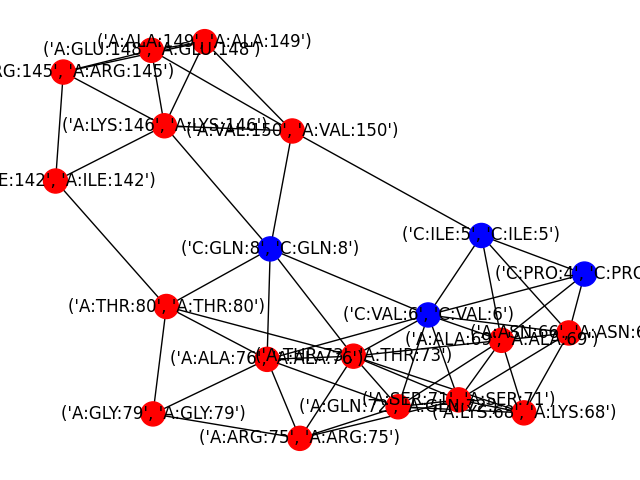
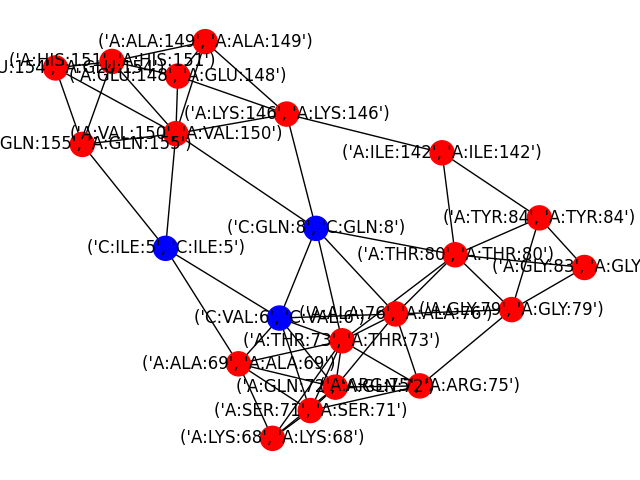
Added SERD Json file config

diff --git a/graph/graph.py b/graph/graph.py
@@ -19,7 +19,7 @@ import numpy as np
 class AssociatedGraph:
     def __init__(self, graphs: List[Tuple], reference_graph: Union[str, int, None], output_path: str, path_full_subgraph: str, run_name: str, 
                  association_mode: str = "identity", centroid_threshold: int = 10, neighbor_similarity_cutoff: float = 0.95, 
-                 rsa_similarity_threshold: float = 0.95, residues_similarity_cutoff: float = 0.95, factors_path: Union[str, None] = None):
+                 rsa_similarity_threshold: float = 0.95, depth_similarity_threshold: float = 0.95, residues_similarity_cutoff: float = 0.95, factors_path: Union[str, None] = None):
 
         self.graphs = graphs
         self.output_path = output_path
@@ -28,6 +28,7 @@ class AssociatedGraph:
         self.centroid_threshold = centroid_threshold
         self.neighbor_similarity_cutoff = neighbor_similarity_cutoff
         self.rsa_similarity_threshold = rsa_similarity_threshold
+        self.depth_similarity_threshold = depth_similarity_threshold
         self.factors_path = factors_path
         self.residues_similarity_cutoff = residues_similarity_cutoff
         self.reference_graph = reference_graph
@@ -35,7 +36,7 @@ class AssociatedGraph:
         Path(self.output_path).mkdir(parents=True, exist_ok=True)
         self.path_full_subgraph = path_full_subgraph
         
-        self.associated_graph = self._construct_graph(graphs=self.graphs, reference_graph=self.reference_graph, association_mode=self.association_mode, centroid_threshold=self.centroid_threshold, residues_similarity_cutoff=self.residues_similarity_cutoff, neighbor_similarity_cutoff=self.neighbor_similarity_cutoff, rsa_similarity_threshold=self.rsa_similarity_threshold, factors_path=self.factors_path )
+        self.associated_graph = self._construct_graph(graphs=self.graphs, reference_graph=self.reference_graph, association_mode=self.association_mode, centroid_threshold=self.centroid_threshold, residues_similarity_cutoff=self.residues_similarity_cutoff, neighbor_similarity_cutoff=self.neighbor_similarity_cutoff, rsa_similarity_threshold=self.rsa_similarity_threshold, depth_similarity_threshold=self.depth_similarity_threshold, factors_path=self.factors_path )
         
     def create_graphs_list(self, graphs: List[Tuple]) -> List[Tuple]:
 
@@ -48,7 +49,7 @@ class AssociatedGraph:
 
         return graphsList
         
-    def build_associated_graph(self, graphsList: List[Tuple], reference_graph: Union[str, int, None], association_mode: str, centroid_threshold: int, neighbor_similarity_cutoff: float, rsa_similarity_threshold: float, residues_similarity_cutoff: float, factors_path: Union[str, None]):
+    def build_associated_graph(self, graphsList: List[Tuple], reference_graph: Union[str, int, None], association_mode: str, centroid_threshold: int, neighbor_similarity_cutoff: float, rsa_similarity_threshold: float, depth_similarity_threshold: float, residues_similarity_cutoff: float, factors_path: Union[str, None]):
         
         if isinstance(reference_graph, int):
             graphsList[0], graphsList[reference_graph] = graphsList[reference_graph], graphsList[0]
@@ -77,7 +78,7 @@ class AssociatedGraph:
         start = time()
         print(f"Vou iniciar o produto cartesiano")
         
-        M = association_product(graphsList=self.graphsList, association_mode = association_mode, factors_path=factors_path, centroid_threshold = centroid_threshold, residues_similarity_cutoff=residues_similarity_cutoff, neighbor_similarity_cutoff = neighbor_similarity_cutoff, rsa_similarity_threshold=rsa_similarity_threshold)
+        M = association_product(graphsList=self.graphsList, association_mode = association_mode, factors_path=factors_path, centroid_threshold = centroid_threshold, residues_similarity_cutoff=residues_similarity_cutoff, neighbor_similarity_cutoff = neighbor_similarity_cutoff, rsa_similarity_threshold=rsa_similarity_threshold, depth_similarity_threshold=depth_similarity_threshold)
         # M = association_product(graphs=graphs, association_mode = association_mode, factors_path=factors_path, nodes_graphs = nodes_graphs, contact_maps = contact_maps, residue_maps_all = residue_maps_all, rsa_maps=rsa_maps, centroid_threshold = centroid_threshold, residues_similarity_cutoff=residues_similarity_cutoff, neighbor_similarity_cutoff = neighbor_similarity_cutoff, rsa_similarity_threshold=rsa_similarity_threshold)
         
         end = time()
@@ -85,7 +86,7 @@ class AssociatedGraph:
         
         return M
     
-    def _construct_graph(self, graphs: list, reference_graph: Union[str, int, None],  association_mode: str, centroid_threshold: int, neighbor_similarity_cutoff: float, rsa_similarity_threshold: float, residues_similarity_cutoff: float, factors_path: Union[str, None]):
+    def _construct_graph(self, graphs: list, reference_graph: Union[str, int, None],  association_mode: str, centroid_threshold: int, neighbor_similarity_cutoff: float, rsa_similarity_threshold: float, depth_similarity_threshold: float, residues_similarity_cutoff: float, factors_path: Union[str, None]):
         # Create a contact map and a list with residue names order as the contact map
         # We do not need to do this, since graphein already build internally the distance matrix considering the centroid
         # This matrix can be obtained from: graph.graph["pdb_df"]
@@ -94,7 +95,7 @@ class AssociatedGraph:
         # Instead of using the dist_mat we can build it again using compute_distmat(graph.graph["pdb_df"])
         
         graphsList= self.create_graphs_list(graphs)
-        associated_graph = self.build_associated_graph(graphsList = graphsList, reference_graph= reference_graph, association_mode = association_mode, centroid_threshold = centroid_threshold, factors_path=factors_path, residues_similarity_cutoff=residues_similarity_cutoff, neighbor_similarity_cutoff= neighbor_similarity_cutoff, rsa_similarity_threshold = rsa_similarity_threshold)
+        associated_graph = self.build_associated_graph(graphsList = graphsList, reference_graph= reference_graph, association_mode = association_mode, centroid_threshold = centroid_threshold, factors_path=factors_path, residues_similarity_cutoff=residues_similarity_cutoff, neighbor_similarity_cutoff= neighbor_similarity_cutoff, rsa_similarity_threshold = rsa_similarity_threshold, depth_similarity_threshold=depth_similarity_threshold)
 
         return associated_graph
     

diff --git a/main.py b/main.py
@@ -7,7 +7,7 @@ import os
 from os import path
 import argparse
 from graph.graph import *
-from config.graph_config import make_graph_config
+from config.parse_configs import make_graph_config
 from io_utils.pdb_io import list_pdb_files, get_user_selection
 import logging, sys
 import json
@@ -15,7 +15,7 @@ import numpy
 import matplotlib
 from typing import Dict, List, Optional
 from SERD import read_vdw, read_pdb, get_vertices, surface, interface, _get_sincos
-
+from collections import defaultdict
 
 class Surface(object):
 
@@ -398,46 +398,18 @@ def parser_args() -> argparse.Namespace:
                         help="Factors for calculating the residue similarity ")
     parser.add_argument('--rsa_filter', type=none_or_float, default=0.1,
                         help="Threshold for filter residues by RSA")
-    parser.add_argument('--rsa_similarity_threshold', type=float, default=0.90,
+    parser.add_argument('--depth_similarity_threshold', type=float, default=0.95,
+                        help="Threshold for make an associate graph using Depth similarity")
+    parser.add_argument('--rsa_similarity_threshold', type=float, default=0.95,
                         help="Threshold for make an associate graph using RSA similarity")
     parser.add_argument('--residues_lists', type=str, default=None,
                         help="Path to Json file which contains the pdb residues")
+    parser.add_argument('--serd_file', type=str, default=None,
+                        help="Path to Json file which contains the SERD configuration" )
     parser.add_argument('--debug', type=bool, default=False,
                         help="Activate debug mode")
 
-    parser.add_argument(
-        "--vdw", type=str, default=None, help="Path to VDW file (optional)"
-    )
-    parser.add_argument(
-        "--step", type=float, default=0.6, help="Step size for surface modeling"
-    )
-    parser.add_argument(
-        "--probe", type=float, default=1.4, help="Probe radius for surface modeling"
-    )
-    parser.add_argument(
-        "--type",
-        type=str,
-        default="SES",
-        choices=["SES", "SAS"],
-        help="Type of surface to model (SES or SAS)",
-    )
-    parser.add_argument(
-        "--keep_only_interface",
-        action="store_true",
-        help="Keep only residues at the interface",
-    )
-    parser.add_argument(
-        "--ignore_backbone",
-        action="store_true",
-        help="Ignore backbone atoms for defining the interface",
-    )
-    parser.add_argument(
-        "--metric",
-        type=str,
-        default="minimum",
-        choices=["minimum", "centroid"],
-        help="Metric used to calculate the residue depth",
-    )
+
     args = parser.parse_args()
     
     return args
@@ -509,6 +481,7 @@ def main():
     centroid_threshold=args.centroid_threshold
     rsa_filter = args.rsa_filter
     rsa_similarity_threshold = args.rsa_similarity_threshold
+    depth_similarity_threshold = args.depth_similarity_threshold
     neighbor_similarity_cutoff = args.neighbor_similarity_cutoff
     
     debug = args.debug
@@ -525,7 +498,6 @@ def main():
     
     with open(args.residues_lists, "r") as f:
         residues_lists = json.load(f) 
-
 
     # List of paths
     mols_path = args.mols_path
@@ -551,9 +523,25 @@ def main():
     for mol_path in selected_files:
         g = Graph(config=config, graph_path=mol_path[0])
 
-        structure = Structure(vdw=args.vdw)
+        defaults_serd = {
+            "vdw": None,
+            "step": 0.6,
+            "probe": 1.4,
+            "type": "SES",
+            "keep_only_interface": True,
+            "ignore_backbone": True,
+            "metric": "minimum"
+        }
+
+        config_serd =  defaultdict(lambda: None, defaults_serd)
+
+        if args.serd_file:
+            with open(args.serd_file, "r") as f:
+                config_serd.update(json.load(f))
+
+        structure = Structure(vdw=config_serd["vdw"])
         structure.load(mol_path[0])
-        structure.model_surface(type=args.type, step=args.step, probe=args.probe)
+        structure.model_surface(type=config_serd["type"], step=config_serd["step"], probe=config_serd["probe"])
         # Seleciona os resíduos com numeração próxima
         # selected_residues = select_residues_within_range(structure)
 
@@ -574,12 +562,12 @@ def main():
     
         # s_g = get_exposed_residues_mhc(g, inter_list=inter_list, rsa_filter = rsa_filter, chains_peptide=["C"], chain_mhc="A")
         s_g = get_exposed_residues(graph=g, rsa_filter=rsa_filter, params=params )
-        s_g.residue_depth = structure.residue_depth(metric=args.metric, keep_only_interface=args.keep_only_interface, ignore_backbone=args.ignore_backbone)  
+        s_g.residue_depth = structure.residue_depth(metric=config_serd["metric"], keep_only_interface=config_serd["keep_only_interface"], ignore_backbone=config_serd["ignore_backbone"])  
         
         # logging.info(f"Residue Depth: {s_g.residue_depth}")
         graphs.append((s_g, mol_path[0]))
 
-    G = AssociatedGraph(graphs=graphs, reference_graph= reference_graph, output_path=output_path, path_full_subgraph=path_full_subgraph, association_mode=args.association_mode, factors_path=args.factors_path, run_name= args.run_name, centroid_threshold=centroid_threshold, residues_similarity_cutoff=args.residues_similarity_cutoff, neighbor_similarity_cutoff=neighbor_similarity_cutoff, rsa_similarity_threshold=rsa_similarity_threshold)
+    G = AssociatedGraph(graphs=graphs, reference_graph= reference_graph, output_path=output_path, path_full_subgraph=path_full_subgraph, association_mode=args.association_mode, factors_path=args.factors_path, run_name= args.run_name, centroid_threshold=centroid_threshold, residues_similarity_cutoff=args.residues_similarity_cutoff, neighbor_similarity_cutoff=neighbor_similarity_cutoff, rsa_similarity_threshold=rsa_similarity_threshold, depth_similarity_threshold=depth_similarity_threshold)
     # G_sub = G.associated_graph
 
     G.draw_graph(show = True)

diff --git a/utils/tools.py b/utils/tools.py
@@ -584,7 +584,7 @@ def create_residues_factors(graphs: List, factors_path: str):
     return residue_factors
 
 # def association_product(graphs: List, association_mode: str, nodes_graphs: List, contact_maps: List, residue_maps_all: List, rsa_maps: List, factors_path: Union[List, None] = None, centroid_threshold: float = 10, residues_similarity_cutoff: float = 0.95, neighbor_similarity_cutoff: float = 0.95, rsa_similarity_threshold: float = 0.95, debug: bool = False):
-def association_product(graphsList: List, association_mode: str, factors_path: Union[List, None] = None, centroid_threshold: float = 10, residues_similarity_cutoff: float = 0.95, neighbor_similarity_cutoff: float = 0.95, rsa_similarity_threshold: float = 0.95, debug: bool = True):
+def association_product(graphsList: List, association_mode: str, factors_path: Union[List, None] = None, centroid_threshold: float = 10, residues_similarity_cutoff: float = 0.95, neighbor_similarity_cutoff: float = 0.95, rsa_similarity_threshold: float = 0.95, depth_similarity_threshold: float = 0.95, debug: bool = True):
     """Make the associated graph through the cartesian product of graphs, using somem modifications to filter nodes and edges.
     
     Args:
@@ -644,11 +644,8 @@ def association_product(graphsList: List, association_mode: str, factors_path: U
     log.info("RSA similarity matrix created with success!")
 
     log.info("Creating Depth similarity matrix...")
-    depth_similarity = create_similarity_matrix(nodes_graphs=nodes_graphs, ranges_graph = ranges_graph, total_lenght= total_lenght_graphs, residues_factors= filtered_depth_maps, similarity_cutoff=rsa_similarity_threshold, mode="1d")
+    depth_similarity = create_similarity_matrix(nodes_graphs=nodes_graphs, ranges_graph = ranges_graph, total_lenght= total_lenght_graphs, residues_factors= filtered_depth_maps, similarity_cutoff=depth_similarity_threshold, mode="1d")
     log.info("Depth similarity matrix created with success!")
-    
-
-
     
     if association_mode == "identity":
         

diff --git a/config/parse_configs.py b/config/parse_configs.py
@@ -3,6 +3,7 @@ from graphein.protein.config import ProteinGraphConfig
 from graphein.protein.edges.distance import add_distance_threshold
 from graphein.protein.features.nodes.dssp import rsa, secondary_structure
 from graphein.protein.config import DSSPConfig
+import json
 
 def make_graph_config(centroid_threshold):
     return ProteinGraphConfig(
@@ -11,3 +12,11 @@ def make_graph_config(centroid_threshold):
         dssp_config=DSSPConfig(),
         granularity="centroids"
     )
+
+def parse_serd_config(json_path: str):
+    with open(json_path, "r") as f:
+        data = json.load(f)       
+
+
+
+

diff --git a/config/__init__.py b/config/__init__.py
@@ -1,1 +1,1 @@
-from config.graph_config import *
+from config.parse_configs import *
